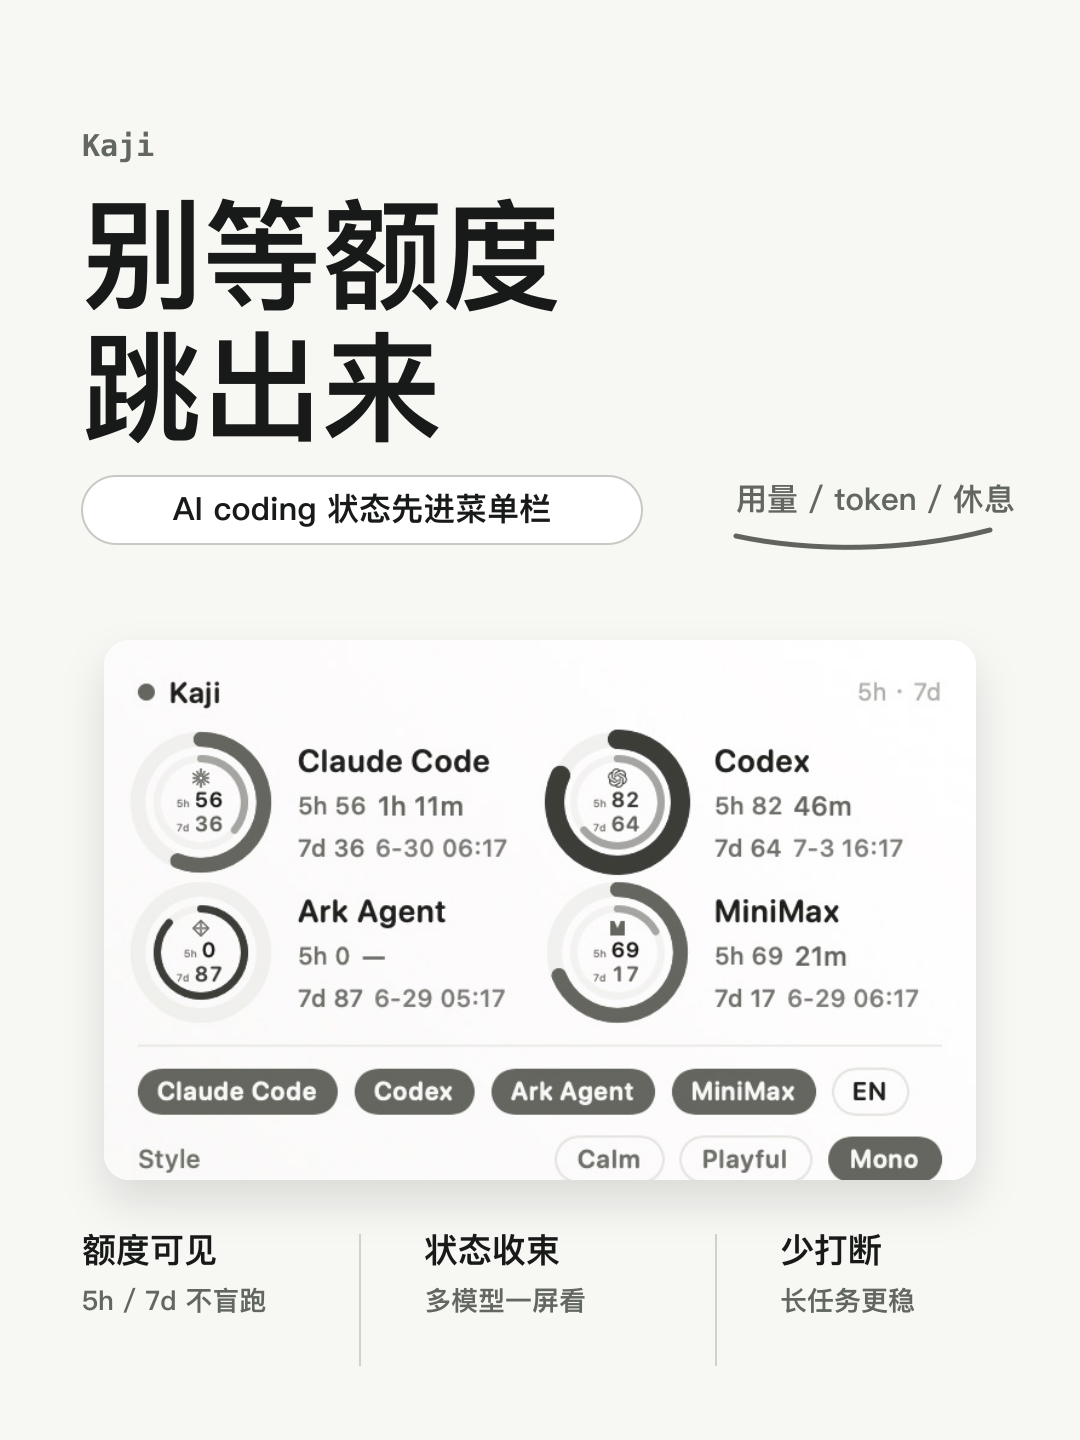
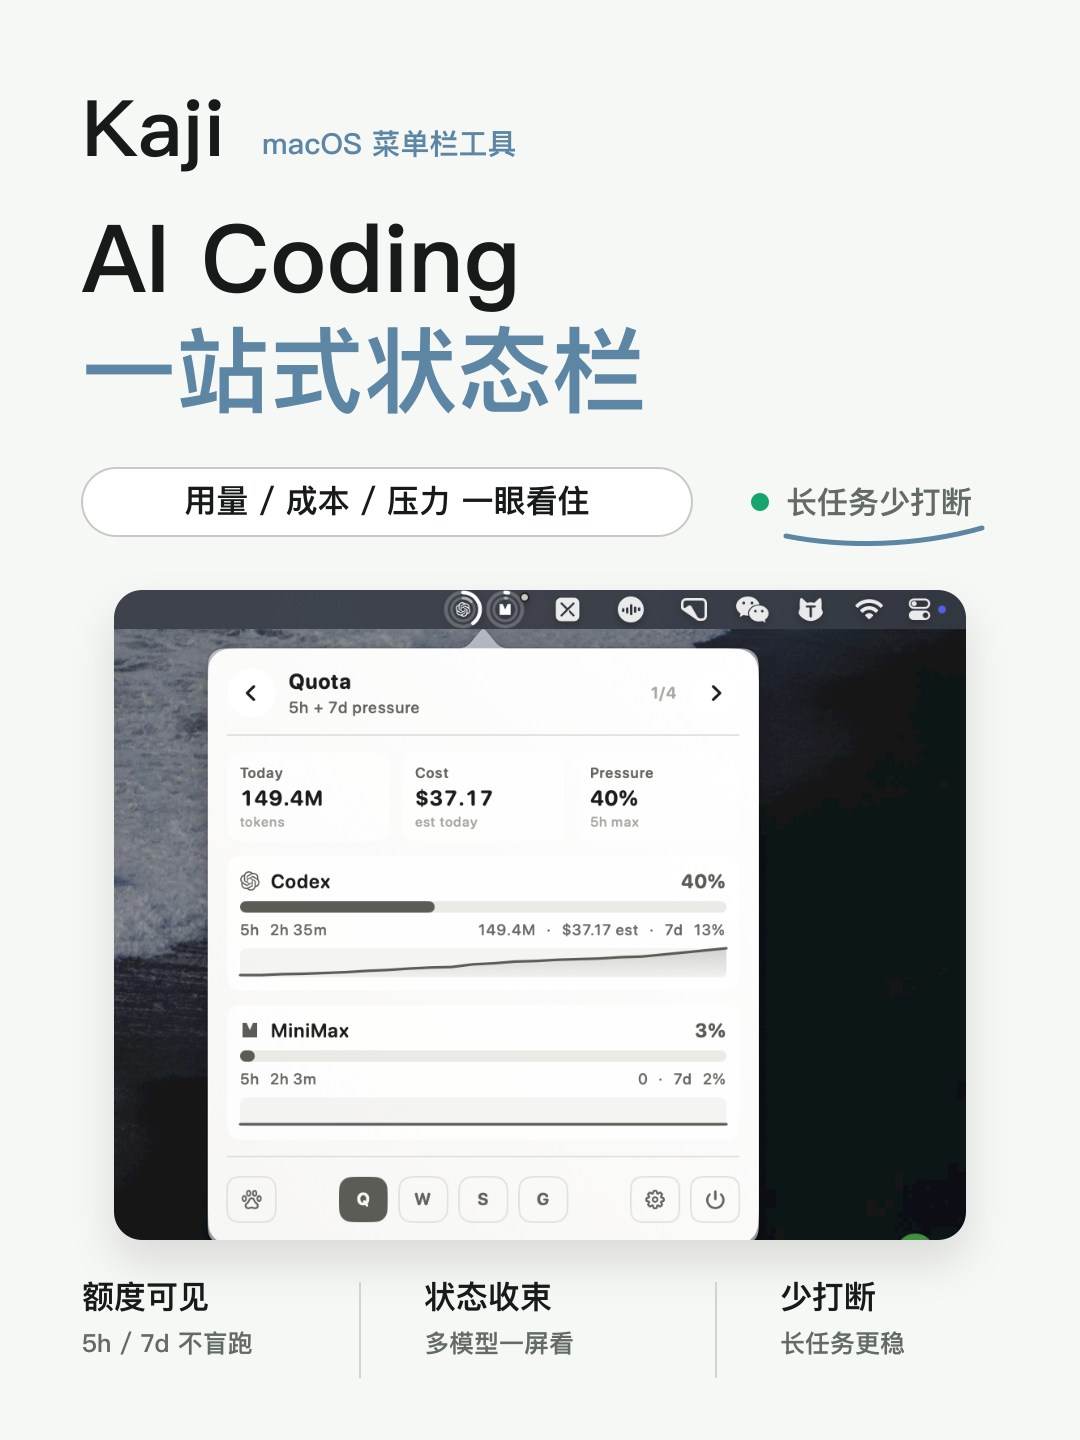
add product cover case

diff --git a/skills/xiaohongshu/references/cover.md b/skills/xiaohongshu/references/cover.md
@@ -29,20 +29,28 @@
 
 适用于有真实界面、截图、demo 图的产品。产品封面不靠装饰证明价值，靠截图证明“这个东西存在且能用”。
 
+适用条件：
+
+- App、网站、CLI、插件、工具、SaaS、开源项目有实际界面。
+- 用户需要先相信产品形态，而不是先看方法论。
+- 有截图、录屏帧、demo 图或产品页主视觉。
+
 结构：
 
 ```text
-顶部：3-10 字大标题，高对比但不指定颜色
-中部：一句副标题或手写批注
-主体：真实产品截图，占画面 30%-45%
+顶部：品牌名 + 一句话定位
+中部：一句副标题或轻量批注
+主体：真实产品截图，占画面 35%-55%
 底部：1-3 个短卖点，每个 6-12 字
 ```
 
 原则：
 
+- 品牌名要足够可见。产品发布时，品牌是第一信息之一。
 - 截图必须是真的产品画面，不用伪 UI。
-- 截图要大，不做缩略图；读者至少能看出产品形态。
-- 文字少但重心强，主标题比截图更先进入视线。
+- 截图要大，不做缩略图；核心界面必须完整，允许轻微裁掉边缘装饰。
+- 截图和底部卖点之间保留稳定间距，不能贴边或压字。
+- 文字少但重心强，品牌名和定位比截图更先进入视线。
 - 卖点只选 1 个主承诺，底部卖点用于补证据。
 - 背景干净，白底/浅灰优先；颜色服务品牌，不照抄参考图。
 - 手写箭头/批注可以用，但只服务解释，不当装饰。
@@ -52,9 +60,19 @@
 
 适合 Kaji 这类产品：
 
-- 主承诺：`别等额度跳出来`
-- 截图：菜单栏 popover、用量面板或真实使用界面
-- 底部卖点：额度可见、状态进菜单栏、长任务不断点
+- 品牌：`Kaji` 要放大。
+- 主承诺：`AI Coding 一站式状态栏` 这类产品定位，优先于单个痛点。
+- 截图：菜单栏 popover、用量面板或真实使用界面。
+- 底部卖点：额度可见、状态收束、少打断。
+
+产品封面检查：
+
+- 截图来自真实产品，不是临时画的概念面板。
+- 品牌名、定位、截图三者说的是同一个产品。
+- 主色只做强调，不照抄参考图配色。
+- 画面有一个明确视觉重心，不平均铺满。
+- 底部卖点平行、短、可证明。
+- 截图和文字之间的间距稳定。
 
 ## 开源工具默认结构
 
@@ -75,7 +93,7 @@
 - 构图：不要死居中；优先“左/上大字 + 右/下产品形态”。
 - 信息密度：主标题、副标题、角标三层以内；底部只放工具名或仓库名。
 
-## taste preflight
+## 视觉检查
 
 从 `design-taste-frontend` 迁移到封面的检查：
 

diff --git a/README.md b/README.md
@@ -61,7 +61,7 @@ docs/
 - `MapleShaw/auto-claude-writing-agent-pub`
 - `Vivixiao980/xhs-cover-skill`
 
-## 首个 Case
+## 首个案例
 
 先做小红书封面。原因：
 
@@ -69,9 +69,21 @@ docs/
 - 开源工具适合用“痛点 + 结果 + 工具名”的封面结构。
 - 封面会倒逼一句话定位，比先写长文更清楚。
 
-Case 见 `skills/xiaohongshu/SKILL.md` 和 `skills/xiaohongshu/references/cover.md`。
+案例见 `skills/xiaohongshu/SKILL.md` 和 `skills/xiaohongshu/references/cover.md`。
 
-## 案例
+## 案例展示
+
+这里放用本仓库技能产出的代表案例。后续不同平台、不同内容类型继续追加。
+
+### Kaji 小红书产品封面
+
+产品类封面。重点验证：品牌名可见、真实截图作证、主标题是产品定位、底部卖点短且平行。
+
+<img src="cases/kaji-launch/cover/cover-d-clean-product.png" alt="Kaji 小红书产品封面" width="360">
+
+- 文案：[cases/kaji-launch/copy/xiaohongshu-copy.md](cases/kaji-launch/copy/xiaohongshu-copy.md)
+- 封面源文件：[cases/kaji-launch/cover/cover-d-clean-product.svg](cases/kaji-launch/cover/cover-d-clean-product.svg)
+- 封面规则：[skills/xiaohongshu/references/cover.md](skills/xiaohongshu/references/cover.md)
 
 - `cases/xiaohongshu-launch/`：`social-media-skills` 小红书发布案例，只放文案和封面资产。
 - `cases/kaji-launch/`：Kaji 小红书发布案例，用来验证 skill 可迁移到真实产品。
@@ -79,6 +91,7 @@ Case 见 `skills/xiaohongshu/SKILL.md` 和 `skills/xiaohongshu/references/cover.
 ## 文档
 
 - `docs/repo-structure.md`：仓库边界，说明 `skills/`、`cases/`、`docs/` 怎么分工。
-- `docs/xiaohongshu-launch-plan.md`：小红书发布路线，说明文案和封面为什么分开。
-- `docs/kaji-launch-plan.md`：Kaji 小红书发布路线，验证真实产品 case。
 - `docs/dogfooding-workflow.md`：本机安装、使用、修 skill、再验证的自举流程。
+- `docs/references/`：先例调研、平台规格、内容和视觉参考。
+
+案例路线、判断、复盘不放 repo docs，沉淀到 Obsidian `02 Projects/social-media-skills/`。

diff --git a/docs/repo-structure.md b/docs/repo-structure.md
@@ -5,7 +5,7 @@
 1. 可安装技能：`skills/`
 2. 证明技能有用的案例资产：`cases/`
 
-过程、路线、取舍、研究沉淀放 `docs/`。
+仓库结构、开发流程、参考资料放 `docs/`。案例路线、取舍、复盘放 Obsidian 项目笔记。
 
 ## 目录边界
 
@@ -22,8 +22,6 @@ cases/
 
 docs/
   repo-structure.md
-  xiaohongshu-launch-plan.md
-  kaji-launch-plan.md
   dogfooding-workflow.md
   references/
 ```
@@ -36,7 +34,8 @@ docs/
 - 不设总入口 skill；跨平台路线放 README/docs，避免 `skills/` 出现抽象目录。
 - 同平台子能力放该平台目录里的 `references/`。
 - `cases/`：只放成品或半成品资产，方便作为证明材料。
-- `docs/`：放路线、策略、设计决策、复盘。
+- `docs/`：放仓库结构、开发流程、参考资料；不放单独 case 复盘。
+- 案例路线、判断、复盘沉到 Obsidian `02 Projects/social-media-skills/`。
 - 不把“为什么这么做”的长说明塞进 case 资产目录。
 
 ## 当前案例
@@ -44,11 +43,11 @@ docs/
 `cases/xiaohongshu-launch/` 是第一个证明案例：
 
 - `copy/xiaohongshu-copy.md`：两版小红书文案。
-- `cover/*.svg`：两张封面源文件。
-- `cover/*.png`：两张封面导出图。
+- `cover/*.svg`：封面源文件。
+- `cover/*.png`：封面导出图。
 
 `cases/kaji-launch/` 是第二个证明案例：
 
 - `copy/xiaohongshu-copy.md`：两版小红书文案。
-- `cover/*.svg`：两张封面源文件。
-- `cover/*.png`：两张封面导出图。
+- `cover/*.svg`：封面源文件。
+- `cover/*.png`：封面导出图。

diff --git a/skills/xiaohongshu/SKILL.md b/skills/xiaohongshu/SKILL.md
@@ -58,6 +58,15 @@ description: "Use when creating Xiaohongshu/小红书 notes, titles, covers, cov
 
 先做封面，再写正文。封面只解决一个问题：用户为什么要点。
 
+先判断封面类型：
+
+- 产品封面：有 App、网站、工具界面、真实截图。必须先要截图；品牌名和一句话定位优先。
+- 方法封面：教程、流程、经验。重点是步骤感和收藏感。
+- 观点封面：判断、反常识、痛点。重点是冲突和态度。
+- 资料封面：合集、清单、模板。重点是范围和可复用。
+
+产品封面不要用纯大字或伪 UI 硬撑。真实截图是证据，标题负责说清定位。
+
 常用公式：
 
 - 痛点型：`还在手搓 X？`

diff --git a/docs/dogfooding-workflow.md b/docs/dogfooding-workflow.md
@@ -20,7 +20,7 @@ cd ~/workspace/social-media-skills
 
 1. 用当前 skill 做一个真实 case。
 2. 把产物放进 `cases/<project>-launch/`。
-3. 把路线、判断、复盘放进 `docs/`。
+3. 把路线、判断、复盘放进 Obsidian `02 Projects/social-media-skills/`。
 4. 抽取可复用规则，写回对应 `skills/*/SKILL.md` 或 `references/`。
 5. 开新会话，用新版 skill 重做同一个 case 或做下一个 case。
 
@@ -29,7 +29,8 @@ cd ~/workspace/social-media-skills
 - case 不靠人工口头解释也能看懂。
 - skill 能从输入直接产出平台原生资产。
 - 每个 case 至少反哺一个 skill 规则。
-- `cases/` 不堆路线；`docs/` 不混成品资产。
+- `cases/` 不堆路线；repo `docs/` 不放单独 case 复盘。
+- 项目复盘沉到 Obsidian Projects，repo docs 只保留结构、流程、参考。
 
 ## 当前自举队列
 